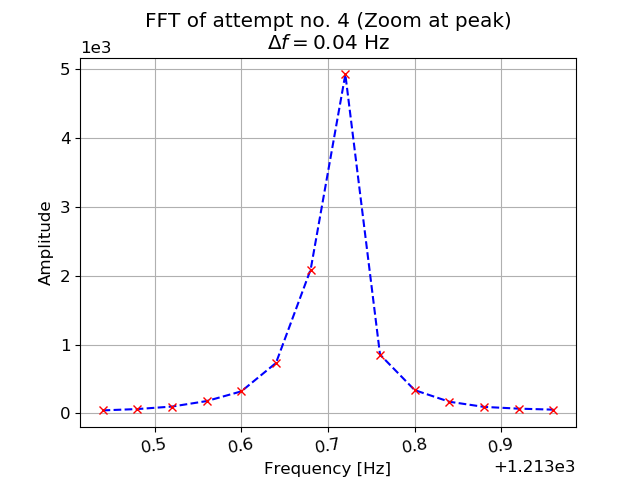
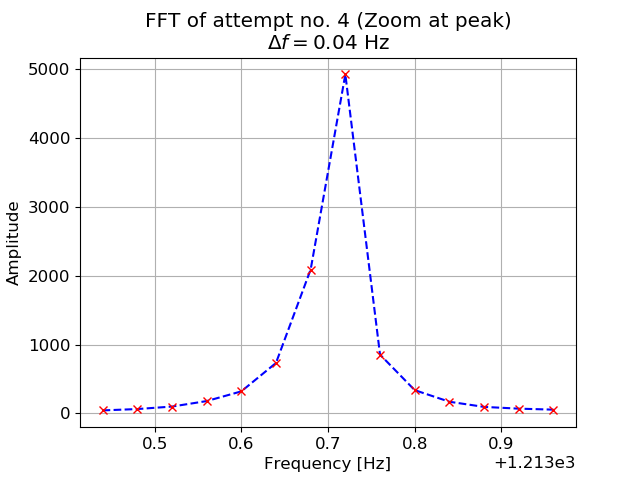
,.,

diff --git a/Rapport 3/scripts/lab_data.py b/Rapport 3/scripts/lab_data.py
@@ -83,7 +83,16 @@ d = np.array([15.98, 15.99, 15.99, 16.00,
               15.99, 15.99, 15.98, 15.99,
               15.99, 15.99]) * 1e-3
 d_mean = np.mean(d)
-d_err = np.sqrt(fys.stddev(d)[1]**2 + (0.01e-3)**2) # Std dev of mean + instrumentation error
+d_err = fys.stddev(d)[1] # Std dev of mean
+
+hist(d)
+ticklabel_format(style='sci', axis='x', scilimits=(0, 0))
+xlabel("thickness [m]")
+ylabel("No. occurrences")
+xticks(rotation=20)
+title("Measured thickness of rod\nmean thickness=%.3em, $\sigma_m=$%.3e"%(d_mean, d_err))
+savefig("figs/thickdat.png")
+close()
 
 f_root = 1213.72
 f_err = 0.04  # resolution of FFT

diff --git a/Rapport 3/scripts/FFTlyd.py b/Rapport 3/scripts/FFTlyd.py
@@ -112,8 +112,8 @@ plt.close()
 figure2(rel_path + "forsok4.mat", style="--", cross=1)
 plt.xlabel("Frequency [Hz]")
 plt.ylabel("Amplitude")
-plt.ticklabel_format(style='sci', axis='y', scilimits=(0,0))
-plt.xticks(rotation=10)
+#plt.ticklabel_format(style='sci', axis='y', scilimits=(0,0))
+#plt.xticks(rotation=10)
 plt.title("FFT of attempt no. 4 (Zoom at peak)\n$\Delta f=0.04$ Hz")
 plt.savefig("freq_exp2_4.png")
 plt.close()
